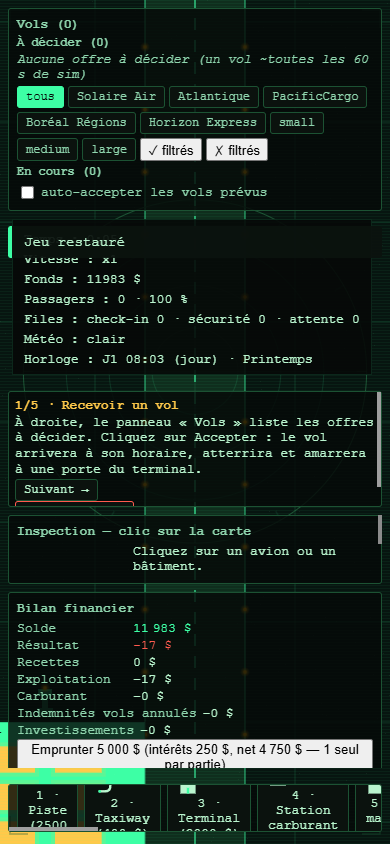
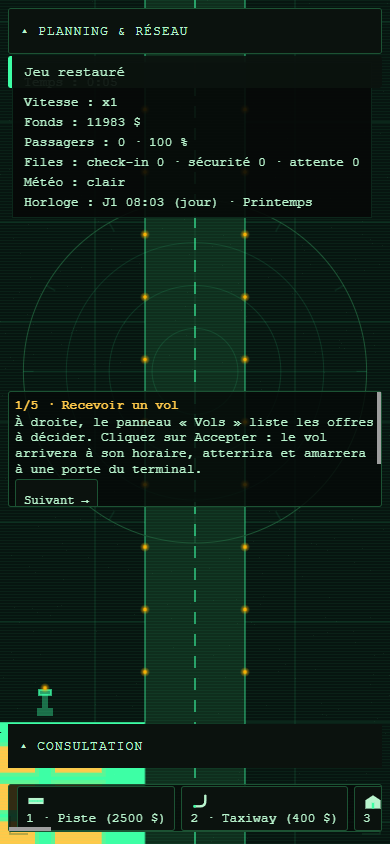
T6 (t_87168414) : sync du site docs (game.html + bundle à jour) + QA de l'entrée docs + re-preuves desktop sans chevauchement.
• docs/game.html : bloc CSS mobile T6 (touch-action, boutons .fold,
    bandes repliées, toasts) aligné sur index.html / dist.
  • docs/standalone.js : déjà re-syncé dans le commit précédent du fix
    build (ce commit couvre le HTML + les preuves).
  • qa/t6-docs-entry.mjs : preuve « TOUTES les entrées » — l'entrée SITE
    (docs/game.html + bundle IIFE) est jouable en mobile : 3/3 checks
    (touch-action:none calculé, accordion ≥44px replié par défaut, tap
    buildTool.clickAt = pose d'EXACTEMENT 1 bâtiment).
  • evidence/ + rapports : re-édition des captures desktop
    (ui-no-overlap, 4 résolutions) — 0 chevauchement résiduel.

Invariante livrée : aucune des 3 entrées (index.html, dist/
standalone.html, docs/game.html) ne duplique la logique d'interaction ;
toutes convergent vers clickAt(). Push : réservé au coordinateur.

diff --git a/docs/game.html b/docs/game.html
@@ -258,6 +258,52 @@
       .toolbar { left: 8px; right: 8px; bottom: 12px; max-width: none; box-sizing: border-box; max-height: 48px; flex-wrap: nowrap; overflow-x: auto; overflow-y: hidden; }
       .menu-btns { max-width: 100vw; }
     }
+
+    /* ============================================================
+    T6 (t_87168414) : MOBILE JOUABLE — tactile (miroir de la build de
+    référence dist/standalone.html, ré-émit sur l'entrée site).
+    - canvas#game : touch-action:none (le navigateur ne préempte ni le
+      scroll ni le zoom de page pendant les gestes pan/pinch/tap) ;
+    - bandes planning / consultation : REPLIABLES (accordion) et repliées
+      PAR DÉFAUT sur mobile (JS : matchMedia) → la map garde ≥60 % de la
+      hauteur ; le bouton .fold (cible 44×44 px) déplie le contenu
+      (22vh / 30vh, défilement interne) ;
+    - toolbar : cibles tactiles ≥44×44 px (défilement horizontal) ;
+    - toasts : zone libre (jamais au-dessus d'un élément interactif),
+      sous la bande planning repliée ; déplacés quand elle est dépliée.
+    Desktop : .fold est masqué (display:none) — comportement desktop intact.
+    (.intro : déjà positionnée dans le bloc mobile ci-dessus, bottom
+    calc(30vh + 84px) — pas de règle T6 à ajouter.)
+    ============================================================ */
+    .fold { display: none; }
+    @media (max-width: 560px) {
+      canvas#game { touch-action: none; }
+      .fold {
+        display: flex; align-items: center; box-sizing: border-box;
+        width: 100%; min-height: 44px; padding: 0 12px;
+        background: var(--at-surface); color: var(--at-text);
+        border: none; cursor: pointer; text-align: left;
+        font: 13px 'Courier New', monospace; letter-spacing: 0.08em; text-transform: uppercase;
+      }
+      /* Cibles tactiles ≥44×44 (boutons de la toolbar, intro, menu) */
+      .toolbar .tool { min-width: 44px; min-height: 44px; flex: none; padding: 4px 8px; }
+      .toolbar .toolbar-hint { display: none; }
+      .intro .tool { min-width: 44px; min-height: 44px; }
+      .menu-btns .tool { min-width: 44px; min-height: 44px; }
+      /* Planning : replié = la ligne du bouton (44 px) ; déplié = 22vh scrollé.
+         Le repli par défaut est géré par le JS (matchMedia), non ici. */
+      .planning { max-height: 44px; overflow: hidden; padding: 0; }
+      .planning.open { max-height: 22vh; overflow-y: auto; padding: 8px; }
+      .planning:not(.open) > :not(.fold) { display: none; }
+      /* Consultation : replié = la ligne du bouton ; déplié = 30vh scrollé */
+      .panels { max-height: 44px; overflow: hidden; }
+      .panels.open { max-height: 30vh; overflow-y: auto; }
+      .panels:not(.open) > :not(.fold) { display: none; }
+      /* Toasts : zone libre sous la bande repliée (12+44 → top 56) ;
+         quand le planning est déplié, ils passent SOUS la bande dépliée. */
+      .toasts { top: 56px; bottom: auto; max-height: 20vh; overflow-y: auto; }
+      body.plan-open .toasts { top: calc(12px + 22vh + 16px); }
+    }
   </style>
 </head>
 <body>
